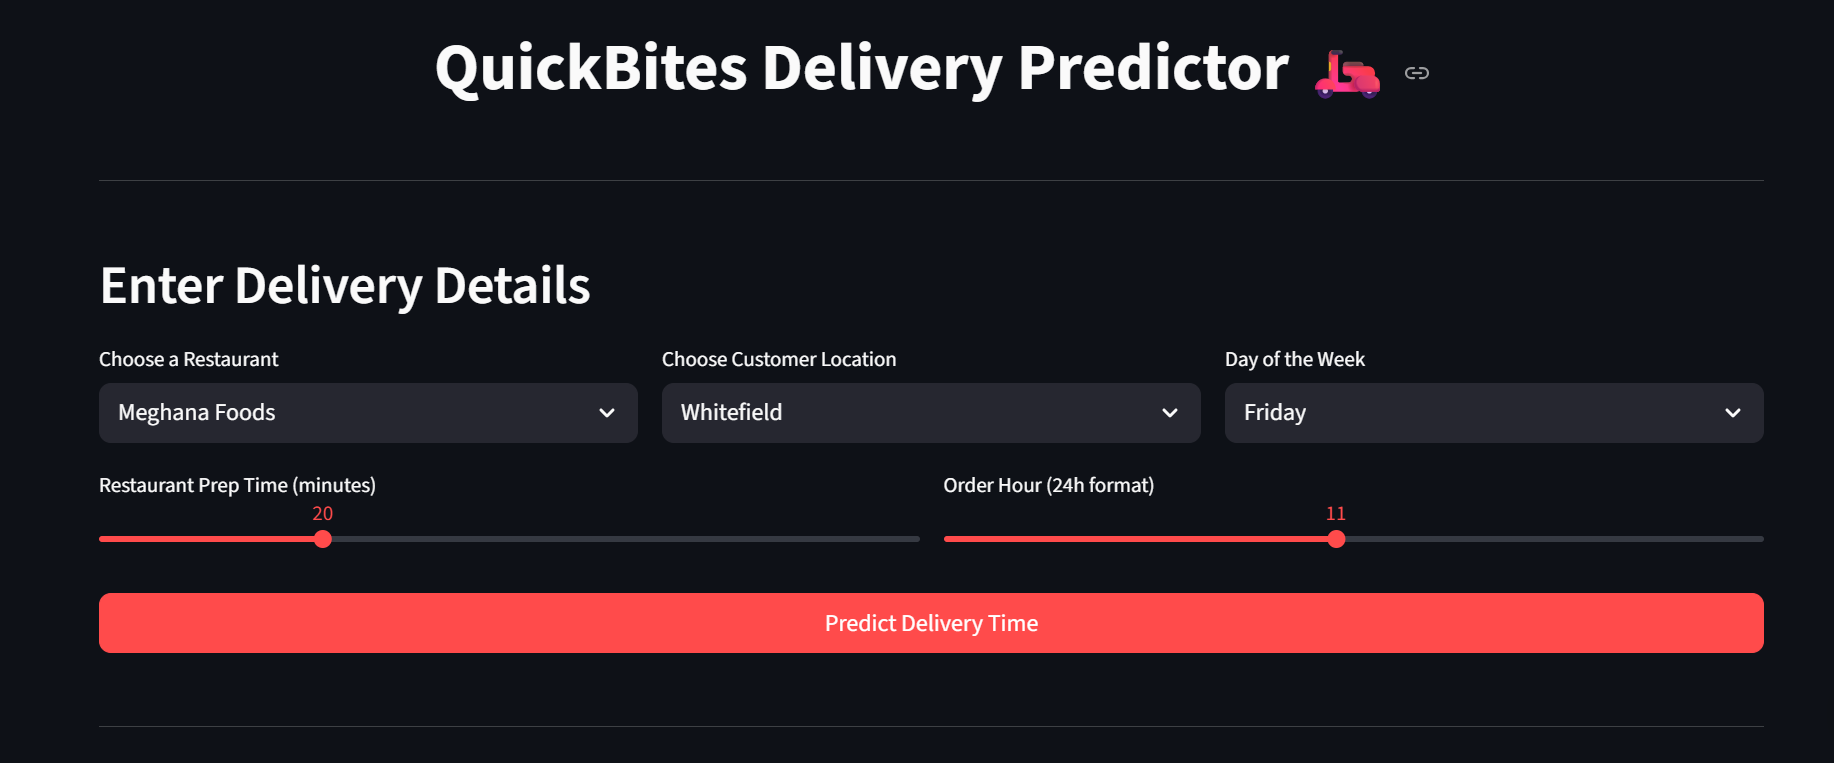
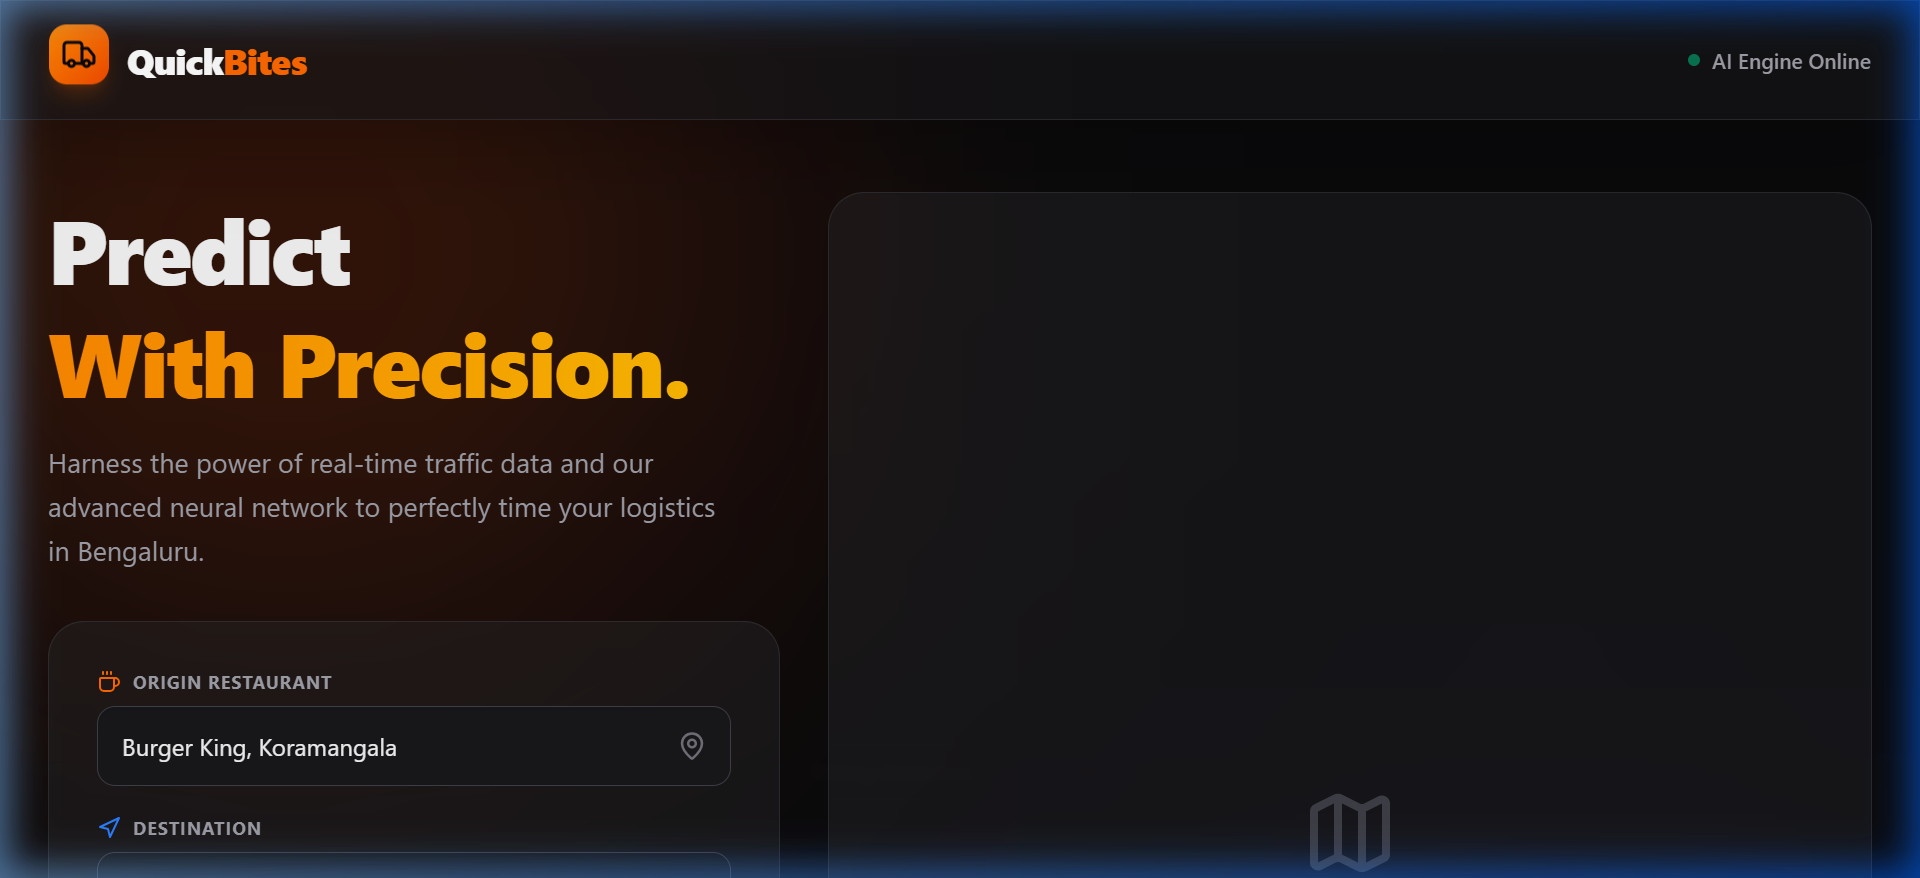
Update README and Demo Image with Vercel UI

diff --git a/README.md b/README.md
@@ -6,7 +6,7 @@
 
 
 
-**Live Demo:** [https://quickbites.streamlit.app/](https://quickbites.streamlit.app/)
+**Live Demo:** [https://l2-project-quick-bites.vercel.app/](https://l2-project-quick-bites.vercel.app/)
 
 
 